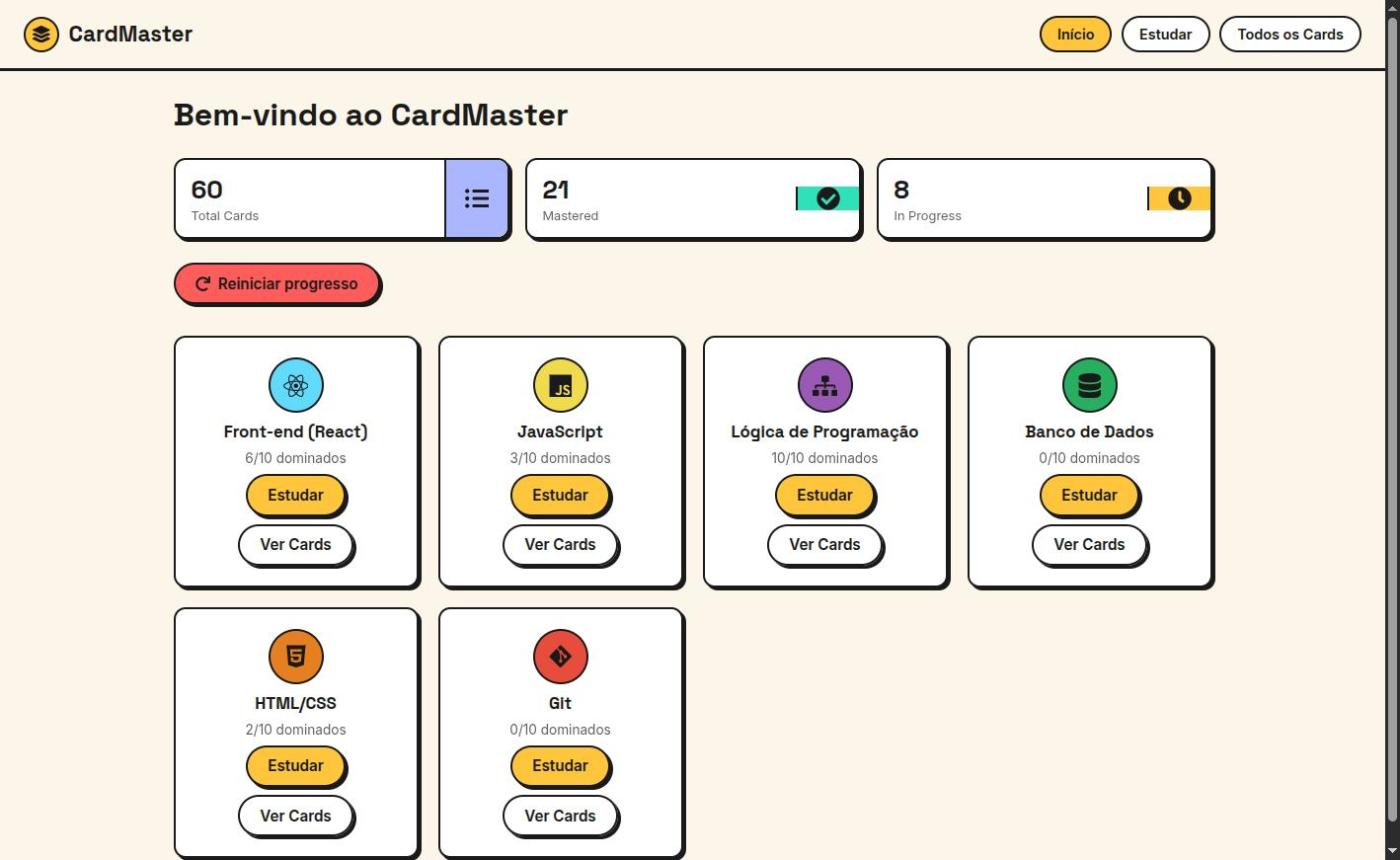
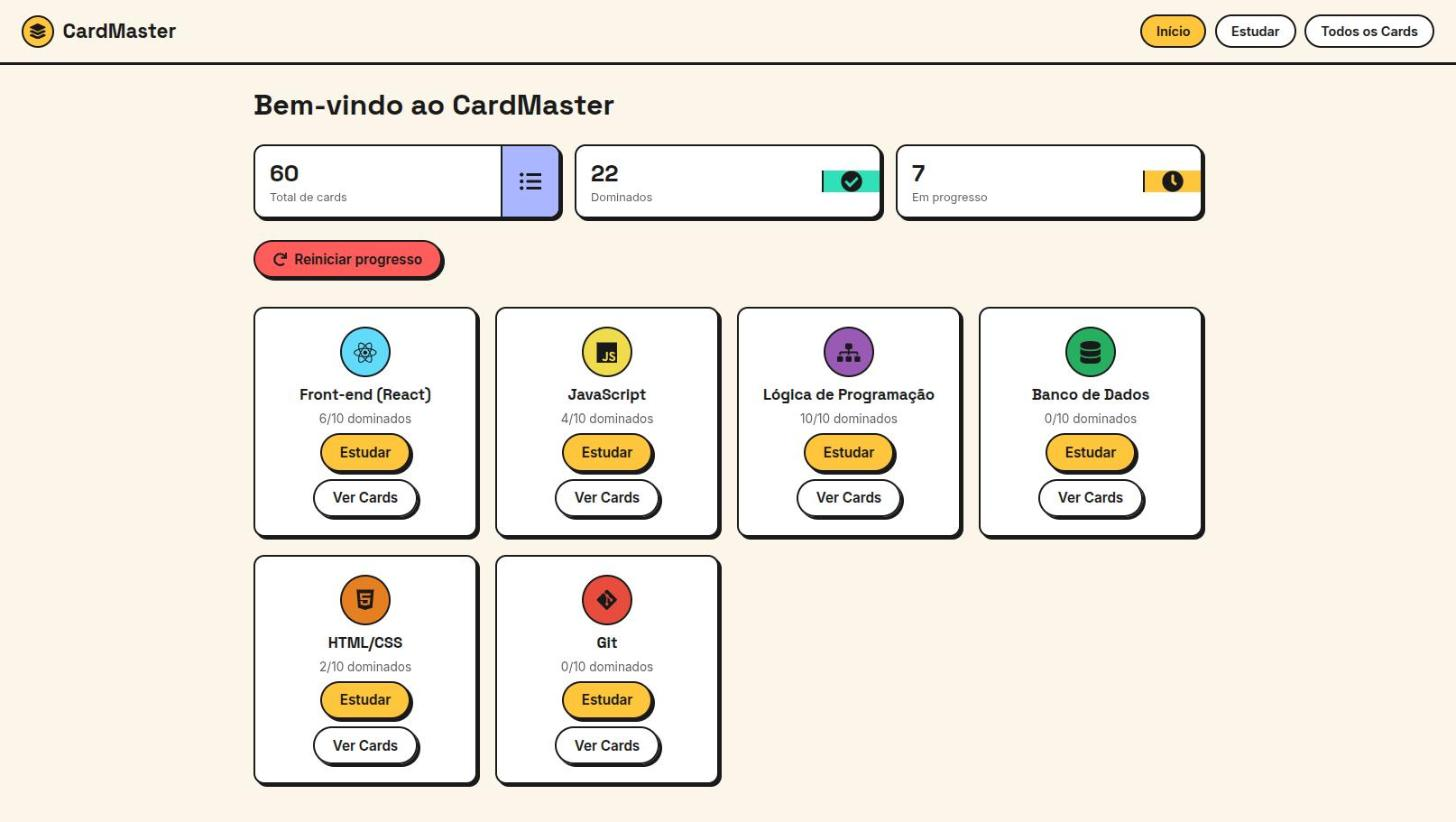
fix: translate Home stats labels to Portuguese and set html lang to pt-BR
Total Cards, Mastered and In Progress become Total de cards, Dominados
and Em progresso, the same terms used in All Cards and the status
badges. README mention updated, and the Home and Study Mode screenshots
retaken (they showed the English labels and the old 2/10 counter).

Closes #5

Changed region(s): [[0.0, 0.0, 1.0, 1.0]]

diff --git a/src/pages/Home/Home.jsx b/src/pages/Home/Home.jsx
@@ -56,16 +56,16 @@ export function Home() {
       <Titulo>Bem-vindo ao CardMaster</Titulo>
 
       <StatsRow>
-        <CardEstatistica titulo="Total Cards" valor={stats.total} cor={tokens.colors.periwinkle} icone={FaListUl} />
+        <CardEstatistica titulo="Total de cards" valor={stats.total} cor={tokens.colors.periwinkle} icone={FaListUl} />
         <CardEstatistica
-          titulo="Mastered"
+          titulo="Dominados"
           valor={stats.mastered}
           cor={tokens.colors.mint}
           icone={FaCheckCircle}
           dica="Cards que você já dominou"
         />
         <CardEstatistica
-          titulo="In Progress"
+          titulo="Em progresso"
           valor={stats.inProgress}
           cor={tokens.colors.sunshine}
           icone={FaClock}

diff --git a/index.html b/index.html
@@ -1,5 +1,5 @@
 <!doctype html>
-<html lang="en">
+<html lang="pt-BR">
   <head>
     <meta charset="UTF-8" />
     <link rel="icon" type="image/svg+xml" href="/favicon.svg" />

diff --git a/README.md b/README.md
@@ -22,7 +22,7 @@ O flashcard obriga a pessoa a tentar lembrar a resposta antes de vê-la (recuper
 
 Funcionalidades complementares:
 
-- **Home (Dashboard):** categorias de estudo disponíveis, com o progresso de cada uma ("3/10 dominados"), e estatísticas gerais (Total Cards, Mastered, In Progress).
+- **Home (Dashboard):** categorias de estudo disponíveis, com o progresso de cada uma ("3/10 dominados"), e estatísticas gerais (total de cards, dominados e em progresso).
 - **Study Mode:** a sessão de estudo, com placar de acertos, erros e cartões restantes, e uma tela de conclusão ao final.
 - **All Cards:** todos os cartões de uma categoria, com busca por texto (pergunta ou resposta) combinada com filtro por status (Novo, Em progresso, Dominado).
 - **Atalhos de teclado no Study Mode:** Espaço ou Enter vira o card, seta direita (ou `1`) marca acerto, seta esquerda (ou `2`) marca erro.
